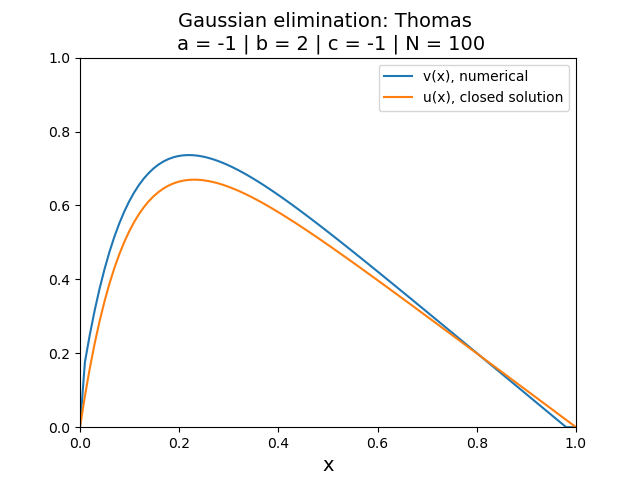
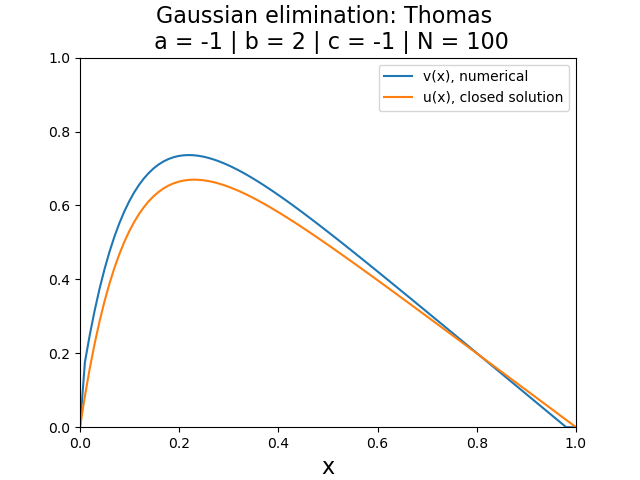
small update

Changed region(s): [[0.25, 0.0, 0.8125, 0.125], [0.5, 0.9375, 0.5312, 1.0]]

diff --git a/Project1/oppgave_1b_sketch_ANNA.py b/Project1/oppgave_1b_sketch_ANNA.py
@@ -146,10 +146,10 @@ def plot(u, v, x, solver_name='', save=False):
 
     plt.plot(x, v, label='v(x), numerical')
     plt.plot(x, u, label='u(x), closed solution')
-    plt.xlabel('x', fontsize=14)
+    plt.xlabel('x', fontsize=16)
     #plt.ylabel()          what should we call this? f(x) maybe? or nathing.. [I vote nathing]
     plt.title('Gaussian elimination: %s \n a = %g | b = %g | c = %g | N = %g'
-           % (solver_name, a_i, b_i, c_i, n_i), fontsize=14)
+           % (solver_name, a_i, b_i, c_i, n_i), fontsize=16)
     plt.legend()
     plt.axis((0,1, 0,1))
 
@@ -173,11 +173,11 @@ def relative_error(N_values, epsilon, solver_name='', save=False):
         epsilon[j] = np.max(np.log(np.abs((v[1:-2]-u[1:-2])/u[1:-2])))
 
     # Plotting the relative error vs. N
-    plt.title('The relative error (%s)' %solver_name)
+    plt.title('The relative error (%s)' %solver_name, fontsize=16)
     plt.plot(N_values, epsilon, 'o-')
     plt.xscale('log')
-    plt.xlabel('n')            # or ''grid points, N''?
-    plt.ylabel(r'$\epsilon$')  # or ''relative error, eps''?
+    plt.xlabel('n', fontsize=16)            # or ''grid points, N''?
+    plt.ylabel(r'$\epsilon$', fontsize=16)  # or ''relative error, eps''?
 
     if save == True:
         ### new values for n, so the input n is irrelevant, correct?
